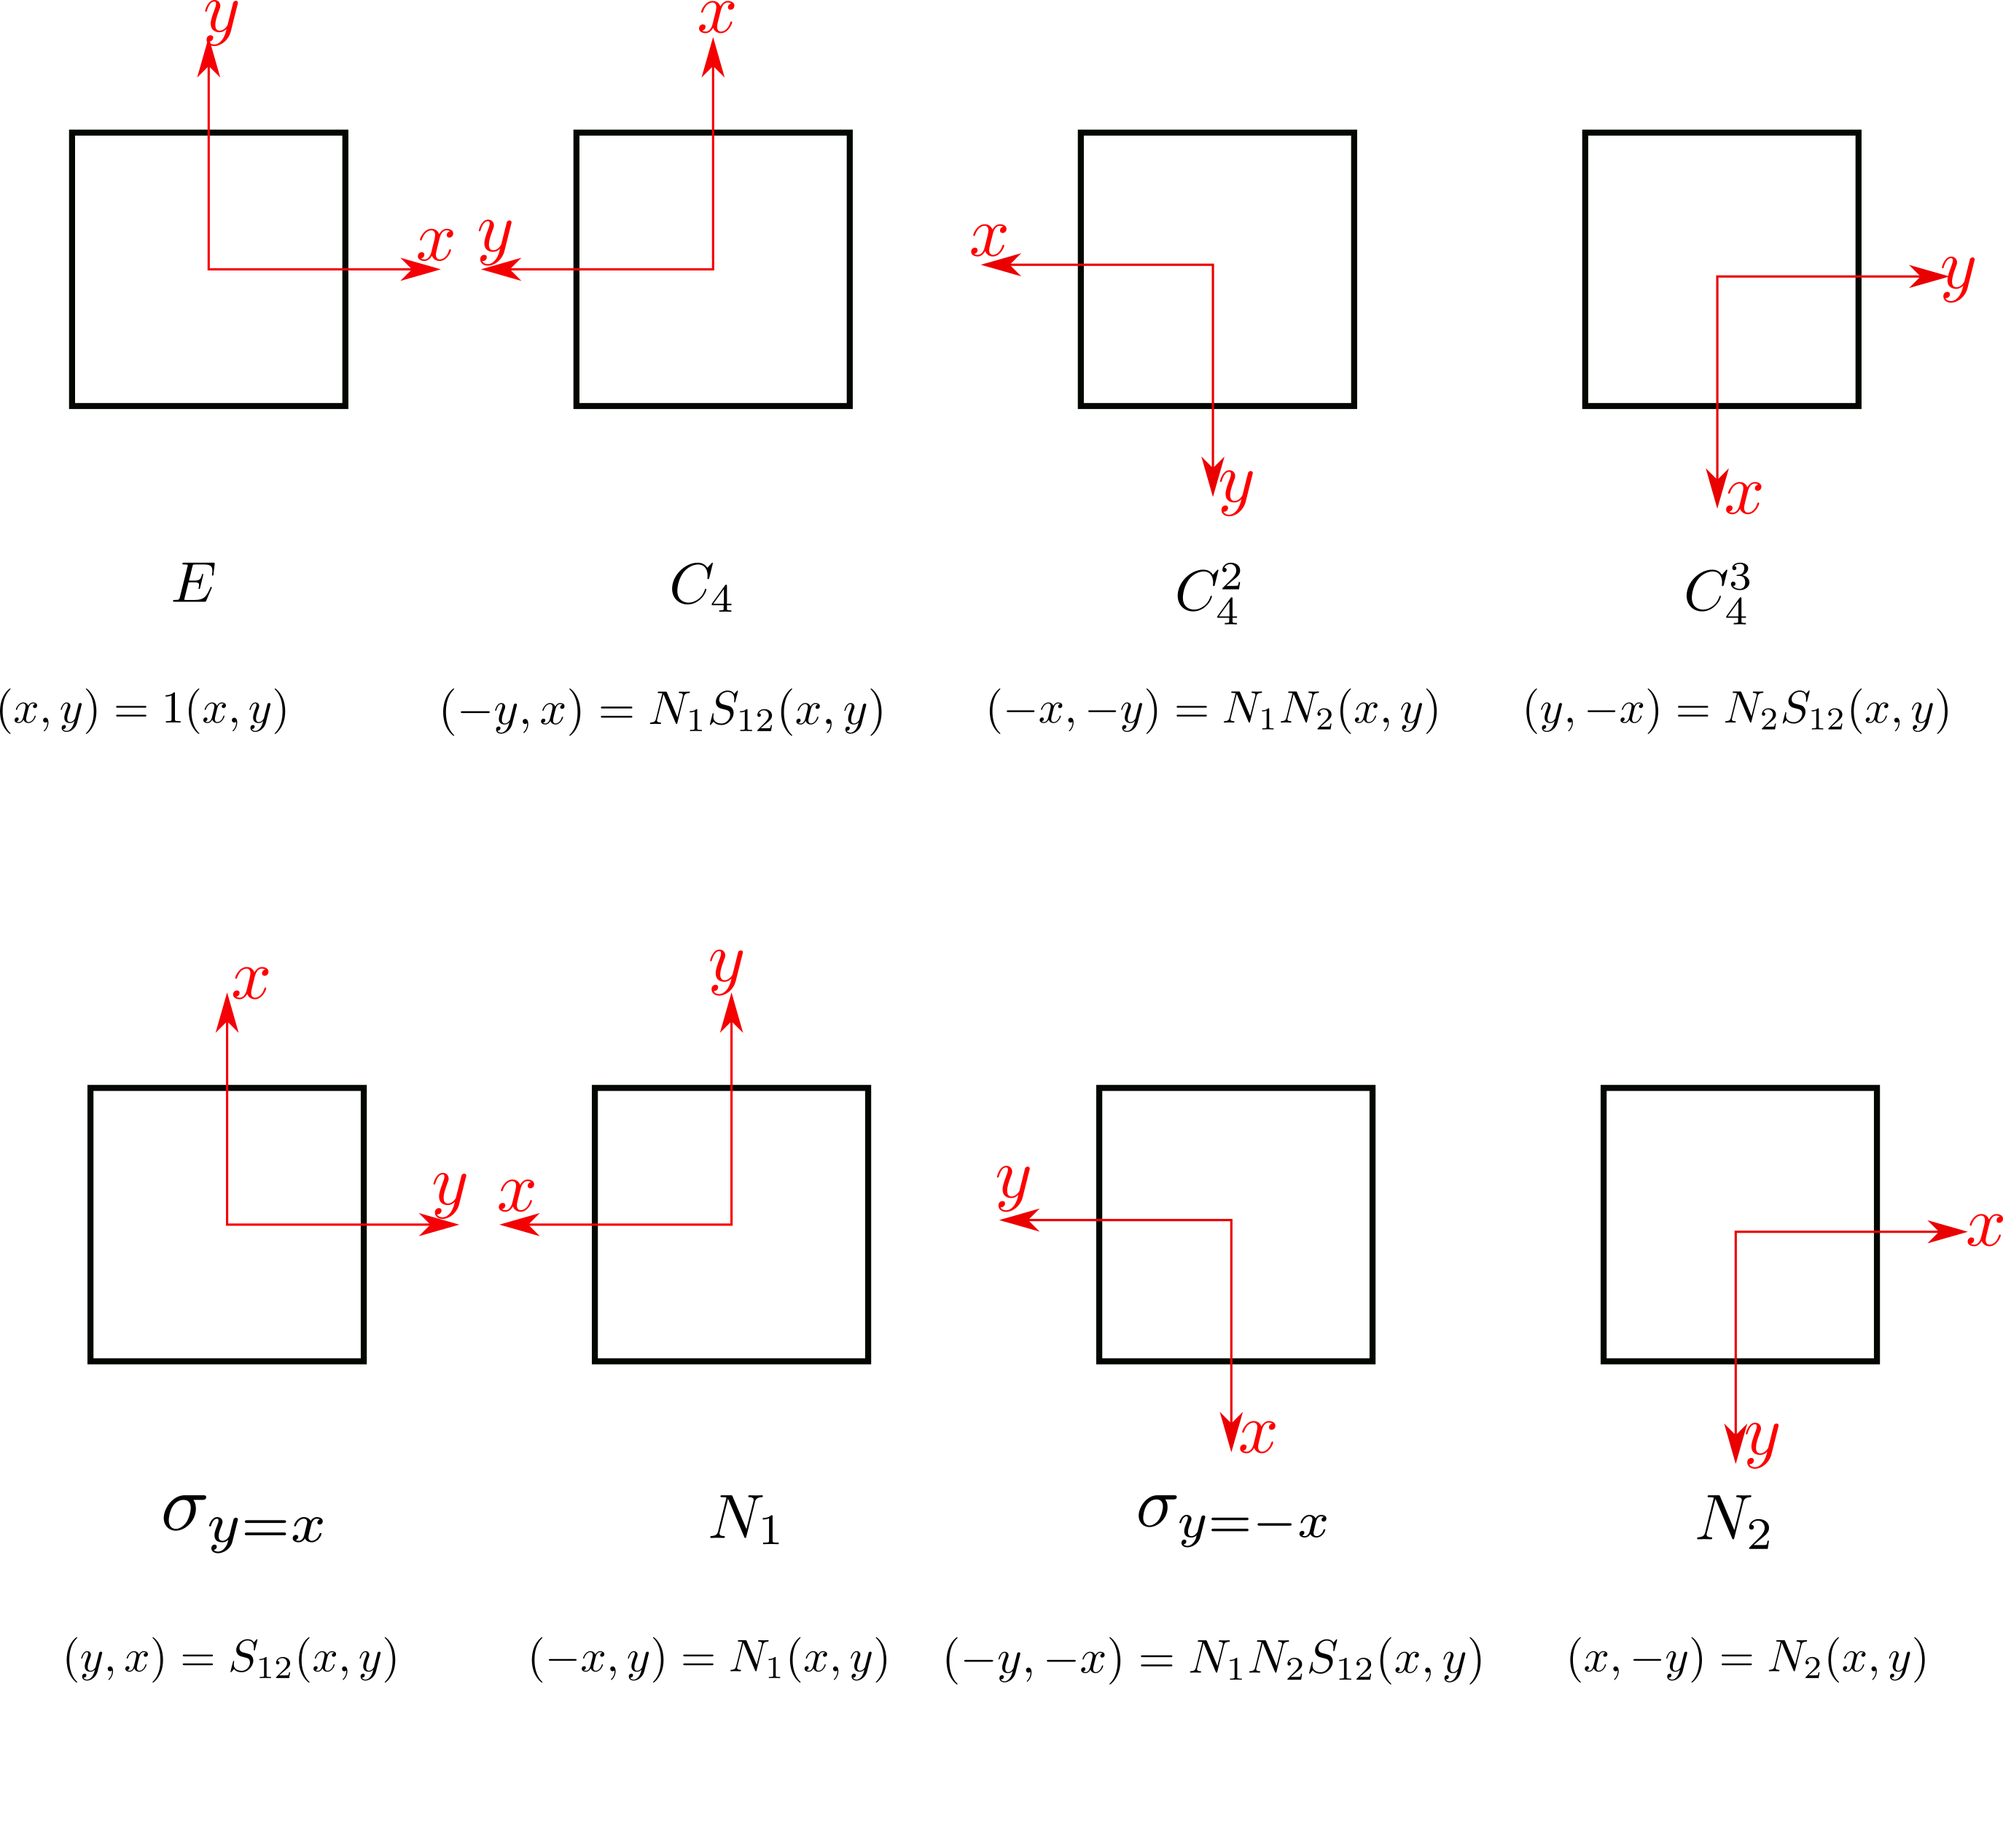
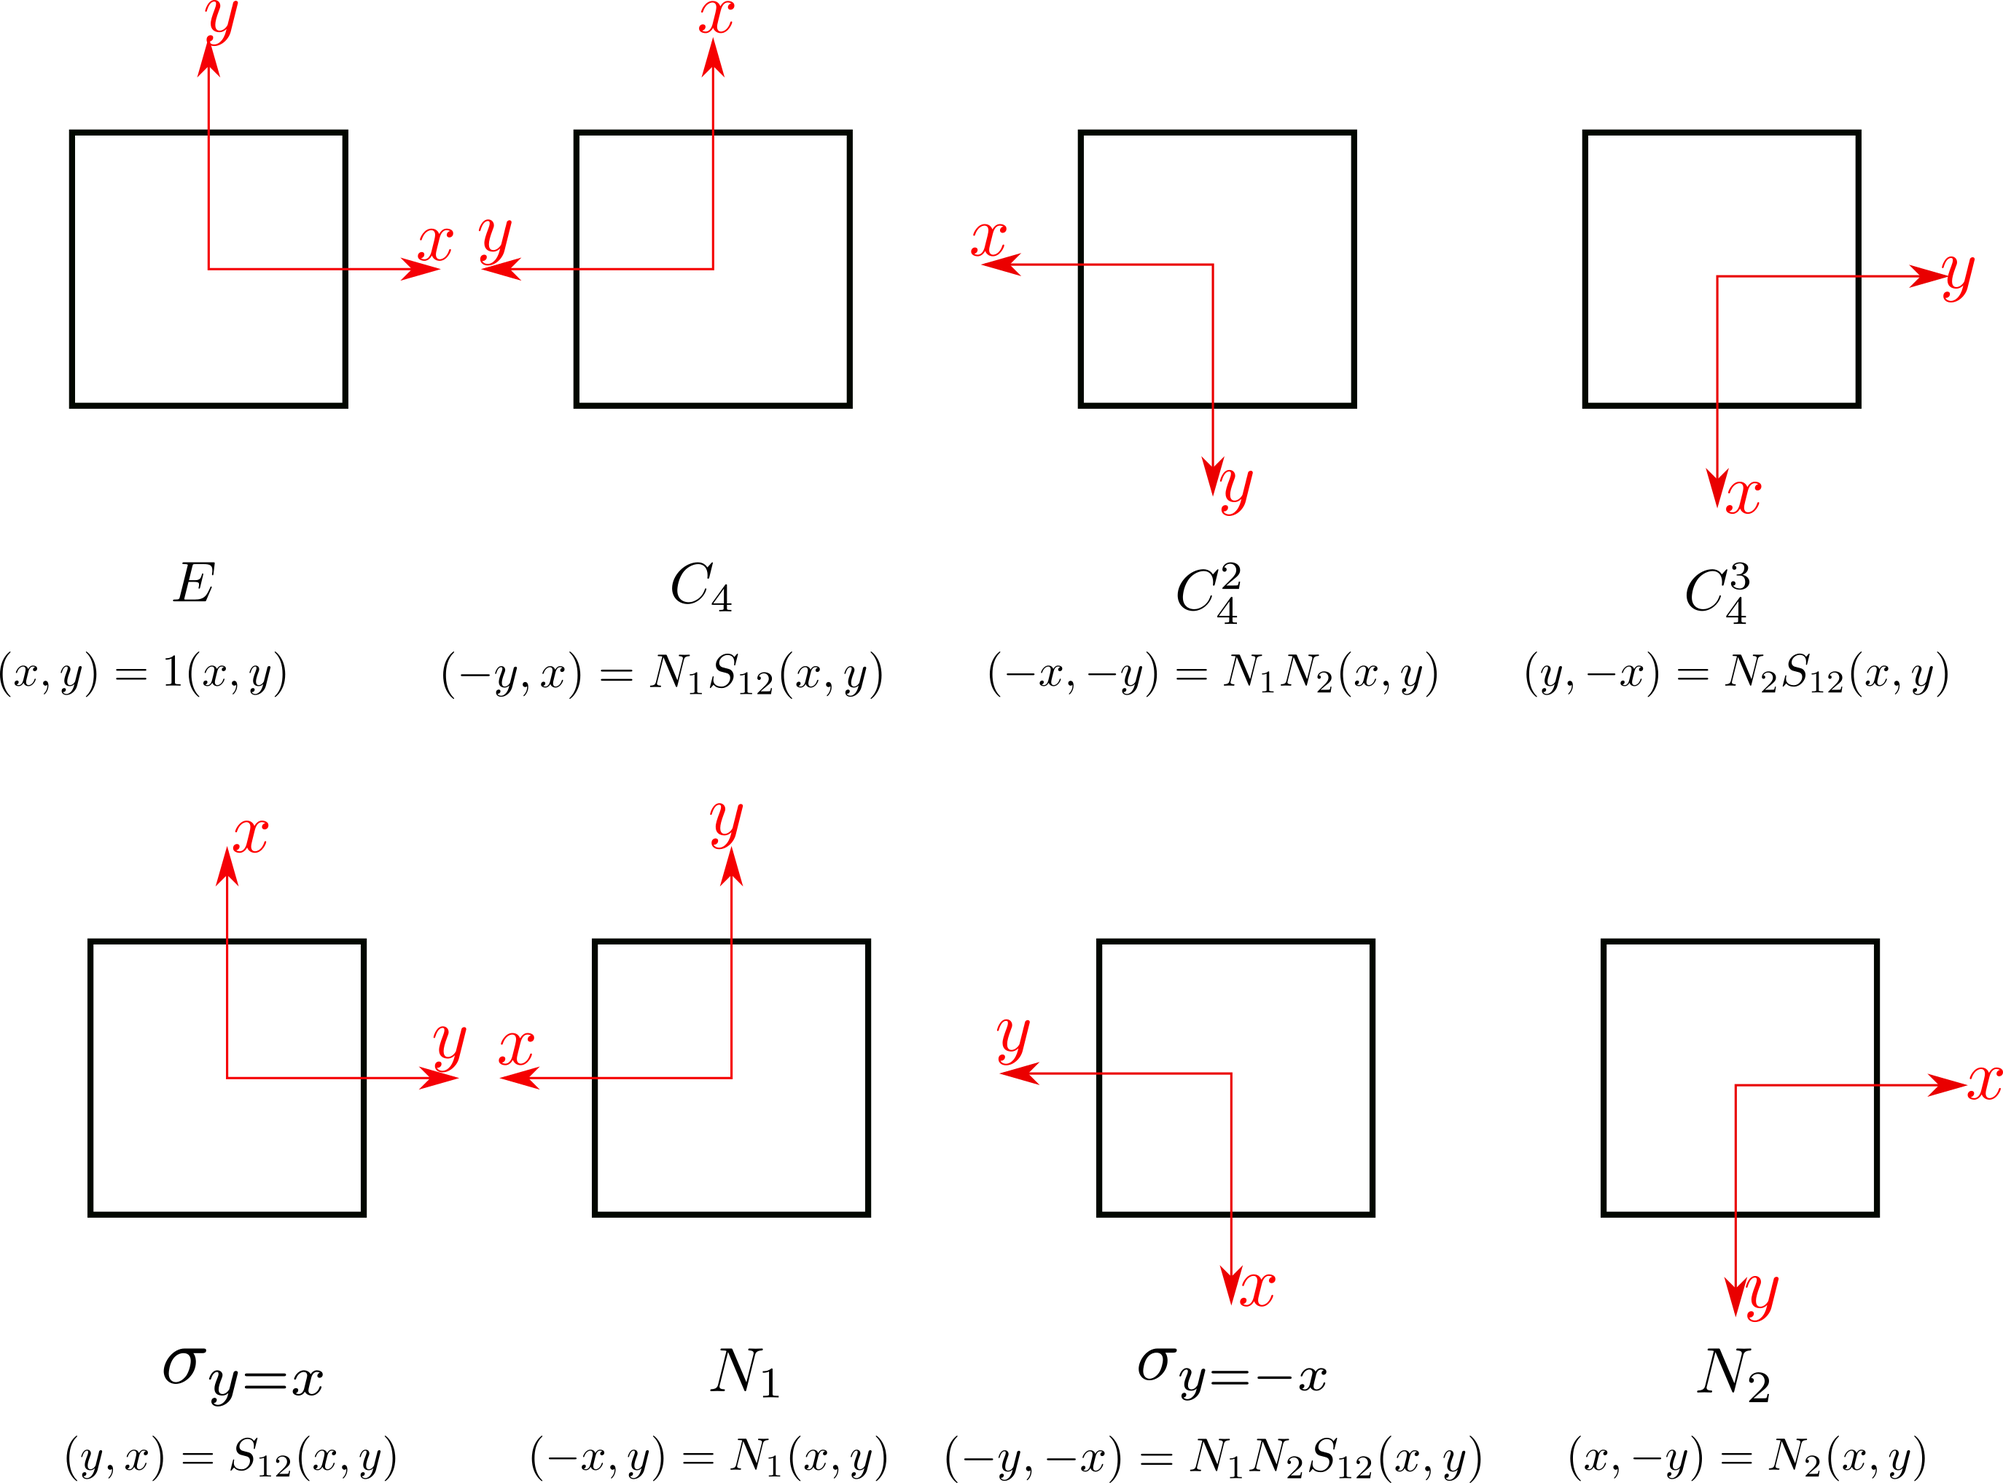
First Commit

diff --git a/reducibility1/reducibility1.tex b/reducibility1/reducibility1.tex
@@ -9,22 +9,14 @@ Representations (reps) of groups are defined in Section \ref{sec-def-rep}.
 In this chapter, we will discuss
  reps of finite groups in more detail.
 
-
 \section{Symmetries of a Square}
-
 
 \begin{figure}[h!]
 \centering
 \includegraphics[width=5in]
 {reducibility1/syms-square.png}
 \caption{Symmetries of a square.
-The operators $N_i$ for $i=1,2$
-replace $i$'th component
-by its negative. The operator $S_{12}$
-swaps components 1 and 2. Ref.\cite{Joshi-book}
-uses $m_x=N_2$, $m_y=N_1$, $\s_u=\s_{y=-x}$,
-$\s_v=\s_{y=x}$.
-$(x,y)$ maps to whatever it says under each square.}
+}
 \label{fig-syms-square}
 \end{figure}
 Fig.\ref{fig-syms-square}
@@ -32,6 +24,13 @@ shows an 8 order group $\sqgroup$\footnote{Joshi Ref.\cite{Joshi-book} calls thi
 a square. The group is generated by the 3 generators
 $N_1$, $N_2$ and $S_{2}$. (i.e., every group element is of the form $N_1^a N_2^b S_{12}^c$,
 for $a,b,c\in\ZZ_{>0}$.
+The operators $N_i$ for $i=1,2$
+replace $i$'th component
+by its negative. The operator $S_{12}$
+swaps components 1 and 2. Ref.\cite{Joshi-book}
+uses $m_x=N_2$, $m_y=N_1$, $\s_u=\s_{y=-x}$,
+$\s_v=\s_{y=x}$.
+$(x,y)$ maps to whatever it says under each square.
 
 \beq
 [N_1, N_2]=0, \quad \begin{pmatrix}N_1\\N_2\end{pmatrix}
@@ -132,16 +131,7 @@ Check that $\sum_{g\in\calg}\chi^\alp(g)
 \label{tab-sq8-char}
 \end{table}
 
-multiplication of classes
 
-\beq
-CC_i CC_j =\{ ab\mid a\in CC_i, b\in CC_j\}
-\eeq
-
-\beq
-CC_i CC_j =\sum_k a^k_{ij}CC_k
-\eeq
-where $a^k_{ij}\in \ZZ_{>0}$.
 
 \section{Block Diagonalization}
 Rearrangement theorem: $aG=a$ for a group $G$ and 
@@ -809,6 +799,16 @@ gives Eq.\ref{eq-ortho-char}.
 
 \qed
 
+multiplication of classes
+
+\beq
+CC_i CC_j =\{ ab\mid a\in CC_i, b\in CC_j\}
+\eeq
+
+\beq
+CC_i CC_j =\sum_k a^k_{ij}CC_k
+\eeq
+where $a^k_{ij}\in \ZZ_{>0}$.
 
 \begin{claim}
 If 
@@ -891,10 +891,13 @@ d_\alp\sum_k a_{ijk}|CC_k|\chi^\alp_k
 \qed
 
 \begin{claim}
-Suppose
+Suppose\footnote{Recall that we define
+$A\equiv B$ , $A$ is equivalent to $B$,
+if they 
+are equal up to a similarity transformation.}
 
 \beq
-\rho(g) =\bigoplus_\alp m_\alp \rho^\alp(g)
+\rho(g) \equiv\bigoplus_\alp m_\alp \rho^\alp(g)
 \eeq
 for all $g\in\calg$
 where $m_\alp\in \ZZ_{>0}$
@@ -980,8 +983,136 @@ irrep $\alp$.
 Regular rep
 
 \beq
-\rho_{reg}(g)_{g_1, g_2}=
-\indi(g=g_1g_2)
+\rho^{reg}(g)_{g_1, g_2}=
+\indi(g=g_1^{-1}g_2)=\delta_{g, g^{-1}_1g_2}
+\eeq
+The regular rep for 
+any $g\in\calg$
+is a $|\calg|\times |\calg|$
+matrix with each row and column being one-hot\footnote{A one-hot vector
+has all its components equal to
+zero except one component equal to one.}.
+That's because given $(g, g_1)$, there is only one $g_2$ for which $g=g_1^{-1}g_2$.
+Likewise, given one $(g, g_2)$,
+there is only one suitable $g_1$.
+Note also that
+
+\beq
+\rho^{reg}(g)_{g_1, g_1}=\delta_{g, e}, \quad \chi^{reg}(g)=\delta_{g,e}|\calg|
+\eeq
+for all $g\in \calg$.
+
+
+\beqa
+\sum_{g_2}\rho^{reg}(a)_{g_1, g_2}
+\rho^{reg}(b)_{g_2, g_3}
+&=&
+\sum_{g_2}
+\delta_{a, g_1^{-1}g_2}
+\delta_{b, g_2^{-1} g_3}
+\\
+&=&
+\delta_{a , g_1^{-1}(  g_3b^{-1})}
+\\
+&=&
+\delta_{ab, g_1^{-1}g_3}
+\\
+&=&
+\rho^{reg}(ab)
+\eeqa
+
+\begin{claim}
+
+\beq
+\chi^{reg}=\sum_\alp d_\alp \chi^\alp
+\eeq
+
+\beq
+|\calg|=\sum_\alp d^2_\alp
+\eeq
+\proof
+ \beq
+\rho^{reg}\equiv\bigoplus_\alp m_\alp \rho^\alp
 \eeq
 
 
+\beqa
+m_\alp
+&=&
+\frac{1}{|\calg|}
+\sum_{g\in\calg}
+\chi^{\alp*}(g)
+\underbrace{\chi_{rep}(g)}_{\delta_{g,e}|\calg|}
+\\
+&=&
+\underbrace{\chi^{\alp*}(e)}_{d_\alp}
+\eeqa
+
+\qed
+
+\end{claim}
+
+
+
+\section{More Reps}
+\begin{enumerate}
+\hrule
+\item (plane wave rep 8-dim rep of $\sqgroup$)
+
+$\vec{r} = (p_1x_1,p_2x_2)$
+
+$\vec{k}=(k_1, k_2)$
+
+
+$(G_a)_{a=1}^8=(E, C_4, C_4^3, C_4^2, N_2, N_1, \s_{y=-x}, \s_{y=x})$
+
+$\vec{r}_a = G_a\vec{r}$
+
+$G_a\ket{\vec{r}}=\ket{G_a\vec{r}}=\ket{\vec{r}_a}$
+
+
+\beq
+\av{\vec{k}|\phi_a(\vec{r})}=
+\av{\vec{k}|\vec{r}_a}=
+\exp(i\vec{k}\cdot \vec{r}_a)
+\eeq
+
+\beqa
+\av{\vec{r}_{a_1}|\vec{r}_{a_2}}
+&=&\int \frac{d^2k}{(2\pi)^2}
+\av{\vec{r}_{a_1}|\vec{k}}
+\av{\vec{k}|\vec{r}_{a_2}}
+\\
+&=&
+\delta(\vec{r}_{a_1}-\vec{r}_{a_2})
+\eeqa
+
+\beq
+\rho(G_a)_{a_1, a_2}=
+\av{\vec{r}_{a_1} |G_a|\vec{r}_{a_2}}
+=
+\av{\vec{r}_{a_1} |G_aG_{a_2}\vec{r}}
+\eeq
+
+
+\beq
+\rho\equiv\rho^{ref}\equiv \bigoplus_\beta m_\beta \rho^\beta
+\eeq
+
+
+\beq
+U^\dagger \rho(G_a) U =
+\bigoplus_\beta m_\beta\rho^\beta(G_a)
+\eeq
+\beq
+\av{\vec{k}|\psi_a(\vec{r})}=
+\av{\vec{k}|U|\vec{r}_a}=
+\sum_{a_1}\av{\vec{k}|\vec{r}_{a_1}}\av{\vec{r}_{a_1}|U|\vec{r}_a}
+\eeq
+
+
+
+$span\{U\ket{\vec{r}_a}\}_{a=1}^8$ is a vector
+space upon the 8-dim rep $\rho$ is block diagonal
+
+\end{enumerate}

diff --git a/conventions/conventions.tex b/conventions/conventions.tex
@@ -195,12 +195,13 @@ such that all elements of $\calg$ in each disjoint subset
 are represented by the same matrix.
 
 Two reps $\rho_1()$ and $\rho_2()$
-of a group $\calg$ are {\bf equivalent reps} if there is a non-singular matrix $M$ such that
+of a group $\calg$ are {\bf equivalent reps} if they are equal up to a {\bf similarity transformation}; i.e., if there is a non-singular matrix $M$ such that
 
 \beq
 \rho_1(g) = M\rho_2(g) M^{-1}
 \eeq
-for all $g\in \calg$.
+for all $g\in \calg$. In that case, we will 
+write $\rho_1\equiv \rho_2$.
 
 
 The vector space $V$
